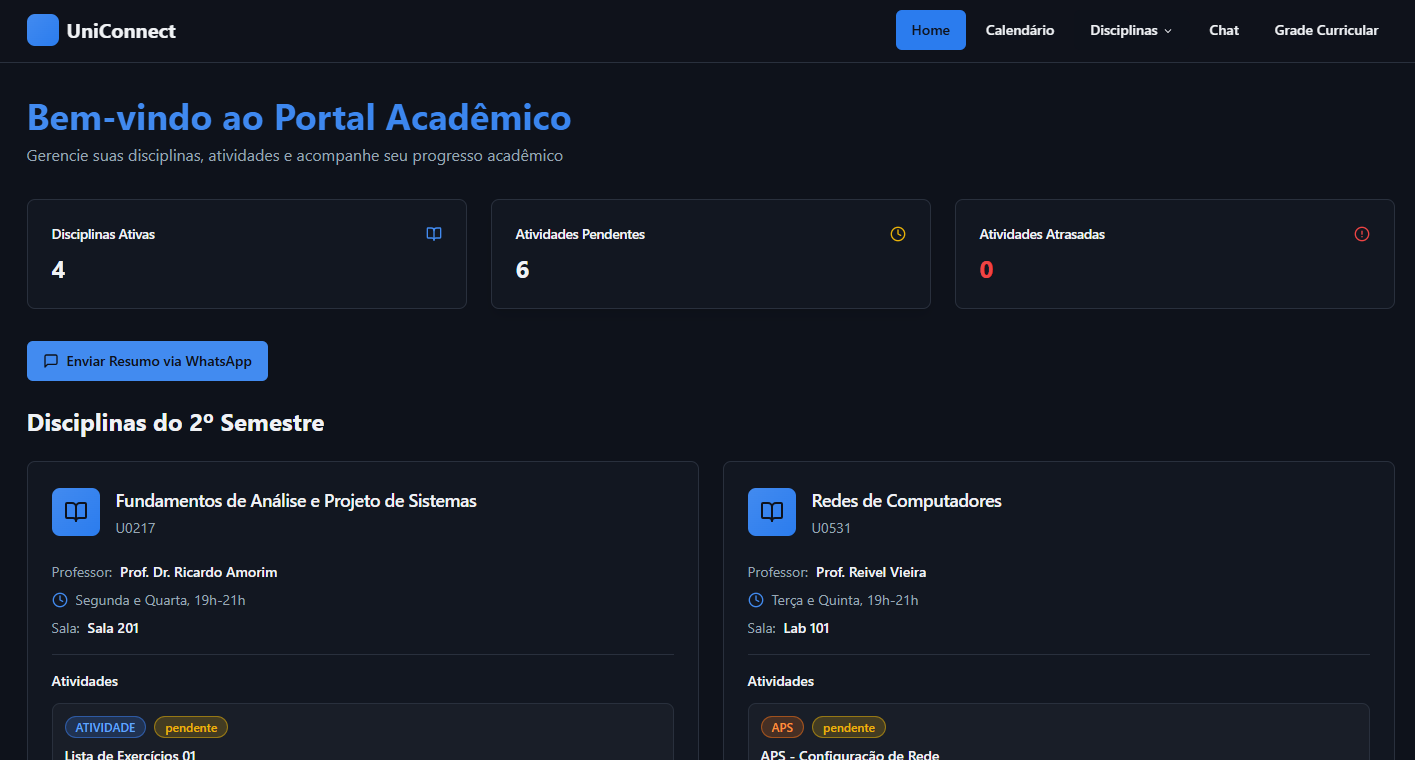
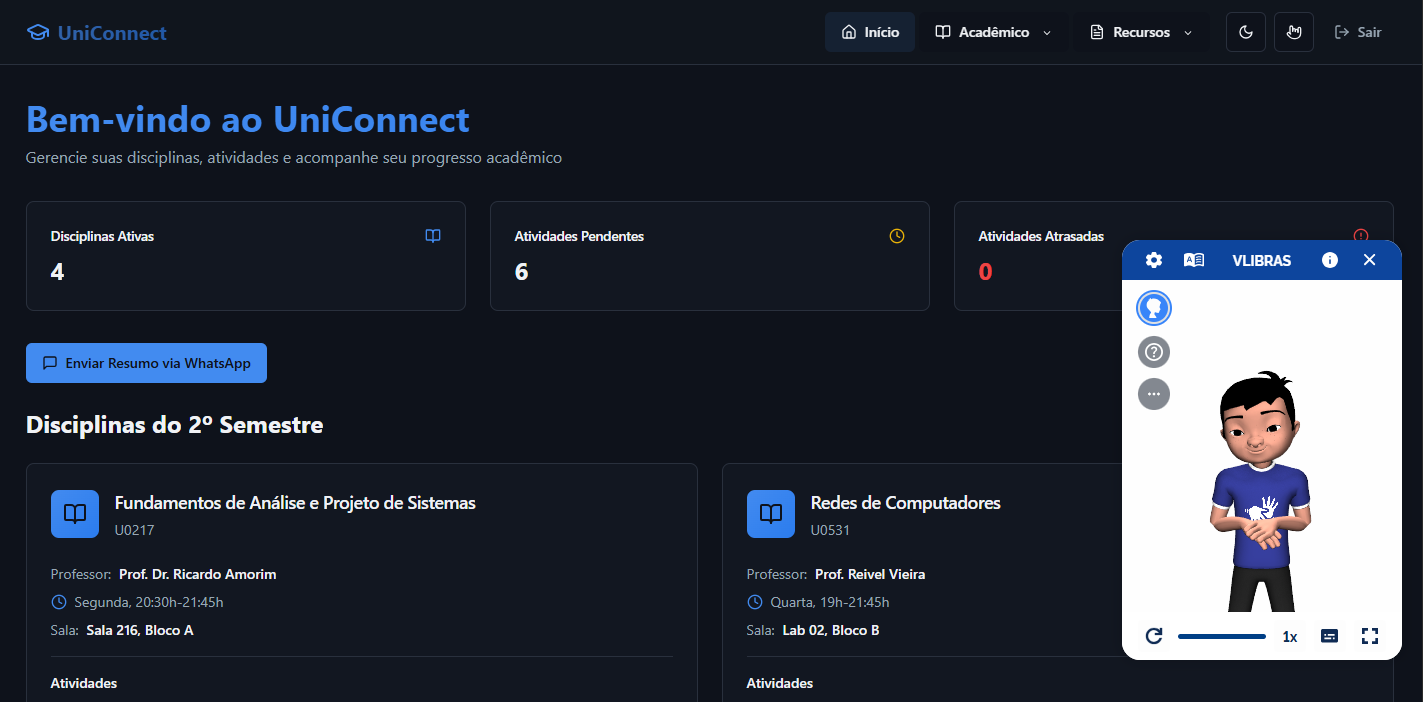
inclusão do ViLibras, troca de foto da setion poerfil, e troca da foto do project UniConnect

diff --git a/index.html b/index.html
@@ -5,9 +5,26 @@
     <meta name="viewport" content="width=device-width, initial-scale=1.0" />
     <link rel="icon" type="text/svg+xml" href="" />
     <title>Meu portifolio</title>
+    <script src="https://vlibras.gov.br/app/vlibras-plugin.js"></script>
   </head>
   <body>
     <div id="root"></div>
+
+    <div vw class="enabled">
+      <div vw-access-button class="active"></div>
+      <div vw-plugin-wrapper>
+        <div class="vw-plugin-top-wrapper"></div>
+      </div>
+    </div>
+
+    <script>
+      try {
+        new window.VLibras.Widget("https://vlibras.gov.br/app");
+      } catch (e) {
+        console.error("VLibras init error", e);
+      }
+    </script>
+
     <script type="module" src="/src/main.tsx"></script>
   </body>
 </html>

diff --git a/src/components/About.tsx b/src/components/About.tsx
@@ -11,7 +11,7 @@ const About: React.FC = () => {
           {/* Imagem responsiva */}
           <div className="flex justify-center lg:justify-end order-2 lg:order-10">
             <img
-              src="/assetes/gus.siara.jpg"
+              src="/assetes/gusms.jpg"
               alt="Gustavo Martins"
               className="w-52 h-52 sm:w-72 sm:h-72 md:w-80 md:h-80 lg:w-96 lg:h-96 object-cover rounded-2xl shadow-2xl border-2 border-gray-700 transition-transform duration-300 hover:scale-105"
               loading="lazy"

diff --git a/src/data/projectsData.tsx b/src/data/projectsData.tsx
@@ -108,7 +108,7 @@ export const projects: Project[] = [
     title: "Project UniConnect",
     description: "Sistema para comunidade academica de alunso e profssores universitarios",
     tech: ["TypeScrip", "Node", "React-Vite", "Tailwind"],
-    image: "/assetes/uniconnect.png",
+    image: "/assetes/uniConnect.png",
     demo:  "https://learn-connect-hub-93.vercel.app/",
     github: "https://github.com/gusttamartins01/connect-hub"
   },
